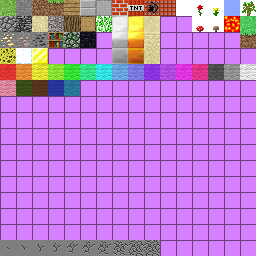
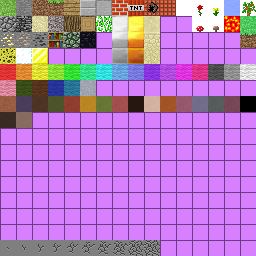
Added stained-clay blocks. Rewrote BlockSelectScreen.java to fit all of the new blocks

Changed region(s): [[0.0, 0.3125, 1.0, 0.5]]

diff --git a/src/main/java/com/mojang/minecraft/level/tile/Block.java b/src/main/java/com/mojang/minecraft/level/tile/Block.java
@@ -101,6 +101,25 @@ public class Block
 	public static final Block TURQUOISE_WOOL;
 	public static final Block SANDSTONE;
 	
+	public static final Block WhiteClay;
+	public static final Block PurpleClay;
+	public static final Block BrownClay;
+	public static final Block GreenClay;
+	public static final Block RedClay;
+	public static final Block YellowClay;
+	public static final Block LimeClay;
+	public static final Block PinkClay;
+	public static final Block GreyClay;
+	public static final Block CreamClay;
+	public static final Block OrangeClay;
+	public static final Block PeachClay;
+	public static final Block IndigoClay;
+	public static final Block BlueClay;
+	public static final Block CyanClay;
+	public static final Block MagentaClay;
+	public static final Block BlackClay;
+	public static final Block CookedClay;
+	
 	public int textureId;
 	public final int id;
 	public Tile$SoundType stepsound;
@@ -761,5 +780,24 @@ public class Block
 		blockCache = block;
 		block.explodes = false;
 		SANDSTONE = blockCache;
+		//--------------------------------------
+		WhiteClay = (new Block(60, 96)).setData(Tile$SoundType.cloth, 1.0F, 1.0F, 0.8F);
+        PurpleClay = (new Block(61, 97)).setData(Tile$SoundType.cloth, 1.0F, 1.0F, 0.8F);
+        BrownClay= (new Block(62, 98)).setData(Tile$SoundType.cloth, 1.0F, 1.0F, 0.8F);
+        GreenClay= (new Block(63, 99)).setData(Tile$SoundType.cloth, 1.0F, 1.0F, 0.8F);
+        RedClay= (new Block(64, 100)).setData(Tile$SoundType.cloth, 1.0F, 1.0F, 0.8F);
+        YellowClay= (new Block(65, 101)).setData(Tile$SoundType.cloth, 1.0F, 1.0F, 0.8F);
+        LimeClay= (new Block(66, 102)).setData(Tile$SoundType.cloth, 1.0F, 1.0F, 0.8F);
+        PinkClay= (new Block(67, 103)).setData(Tile$SoundType.cloth, 1.0F, 1.0F, 0.8F);
+        GreyClay= (new Block(68, 104)).setData(Tile$SoundType.cloth, 1.0F, 1.0F, 0.8F);
+        CreamClay= (new Block(69, 105)).setData(Tile$SoundType.cloth, 1.0F, 1.0F, 0.8F);
+        OrangeClay= (new Block(70, 106)).setData(Tile$SoundType.cloth, 1.0F, 1.0F, 0.8F);
+        PeachClay= (new Block(71, 107)).setData(Tile$SoundType.cloth, 1.0F, 1.0F, 0.8F);
+        IndigoClay= (new Block(72, 108)).setData(Tile$SoundType.cloth, 1.0F, 1.0F, 0.8F);
+        BlueClay= (new Block(73, 109)).setData(Tile$SoundType.cloth, 1.0F, 1.0F, 0.8F);
+        CyanClay= (new Block(74, 110)).setData(Tile$SoundType.cloth, 1.0F, 1.0F, 0.8F);
+        MagentaClay= (new Block(75, 111)).setData(Tile$SoundType.cloth, 1.0F, 1.0F, 0.8F);
+        BlackClay= (new Block(76, 112)).setData(Tile$SoundType.cloth, 1.0F, 1.0F, 0.8F);
+        CookedClay= (new Block(77, 113)).setData(Tile$SoundType.cloth, 1.0F, 1.0F, 0.8F);
 	}
 }

diff --git a/src/main/java/com/mojang/minecraft/gui/BlockSelectScreen.java b/src/main/java/com/mojang/minecraft/gui/BlockSelectScreen.java
@@ -9,7 +9,7 @@ import org.lwjgl.opengl.GL11;
 
 public final class BlockSelectScreen extends GuiScreen {
 
-	int BlocksPerRow = 12;
+	int BlocksPerRow = 14;
 	int Spacing = 18;
 
 	public BlockSelectScreen() {
@@ -18,9 +18,9 @@ public final class BlockSelectScreen extends GuiScreen {
 
 	private int getBlockOnScreen(int var1, int var2) {
 		for (int var3 = 0; var3 < SessionData.allowedBlocks.size(); ++var3) {
-			int var4 = this.width / 2 + var3 % BlocksPerRow * Spacing + -108
+			int var4 = this.width / 2 + var3 % BlocksPerRow * Spacing + -128
 					- 3;
-			int var5 = this.height / 2 + var3 / BlocksPerRow * Spacing + -60
+			int var5 = this.height / 2 + var3 / BlocksPerRow * Spacing + -45
 					+ 3;
 			if (var1 >= var4 && var1 <= var4 + Spacing
 					&& var2 >= var5 - BlocksPerRow
@@ -37,16 +37,16 @@ public final class BlockSelectScreen extends GuiScreen {
 	public final void render(int var1, int var2) {
 		var1 = this.getBlockOnScreen(var1, var2);
 
-		drawFadingBox(this.width / 2 - 120, 30, this.width / 2 + 120, 180,
+		drawFadingBox(this.width / 2 - 140, 50, this.width / 2 + 140, 200,
 				-1878719232, -1070583712);
 		if (var1 >= 0) {
-			var2 = this.width / 2 + var1 % BlocksPerRow * Spacing + -108;
+			var2 = this.width / 2 + var1 % BlocksPerRow * Spacing + -128;
 			drawCenteredString(this.fontRenderer, GetBlockName(var1),
-					this.width / 2, 165, 16777215);
+					this.width / 2, 185, 16777215);
 		}
 
 		drawCenteredString(this.fontRenderer, "Select block", this.width / 2,
-				40, 16777215);
+				60, 16777215);
 		TextureManager var7 = this.minecraft.textureManager;
 		ShapeRenderer var8 = ShapeRenderer.instance;
 		var2 = var7.load("/terrain.png");
@@ -56,9 +56,9 @@ public final class BlockSelectScreen extends GuiScreen {
 			if (var4 != null) {
 				GL11.glPushMatrix();
 				int var5 = this.width / 2 + var2 % BlocksPerRow * Spacing
-						+ -108;
+						+ -128;
 				int var6 = this.height / 2 + var2 / BlocksPerRow * Spacing
-						+ -60;
+						+ -45;
 				GL11.glTranslatef((float) var5, (float) var6, 0.0F);
 				GL11.glScalef(9.0F, 9.0F, 9.0F);
 				GL11.glTranslatef(1.0F, 0.5F, 8.0F);

diff --git a/src/main/java/com/mojang/minecraft/level/tile/BlockID.java b/src/main/java/com/mojang/minecraft/level/tile/BlockID.java
@@ -65,7 +65,28 @@ public enum BlockID {
 	        Brown ( 56 ),
 	        DeepBlue ( 57 ),
 	        Turquoise ( 58 ),
-	        Sandstone (59);
+	        Sandstone (59),
+	        WhiteClay(60),
+	        PurpleClay(61),
+	        BrownClay(62),
+	        GreenClay(63),
+	        RedClay(64),
+	        YellowClay(65),
+	        LimeClay(66),
+	        PinkClay(67),
+	        GreyClay(68),
+	        CreamClay(69),
+	        OrangeClay(70),
+	        PeachClay(71),
+	        IndigoClay(72),
+	        BlueClay(73),
+	        CyanClay(74),
+	        MagentaClay(75),
+	        BlackClay(76),
+	        CookedClay(77)
+	        
+	        
+	        ;
 
 	private int number;
 
